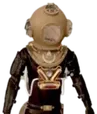
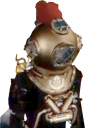
update narrator emoji

diff --git a/main.py b/main.py
@@ -63,7 +63,7 @@ characters = {
     "larry": 0xe46704,
     "squilliam": 0xd5f0d7,
     "karen": 0x7891b8,
-    "narrator": 0xa8865f,
+    "narrator": 0xb19672,
     "bubble buddy": 0x79919b,
     "bubble bass": 0xd9c481,
     "perch": 0x9f80bd,
